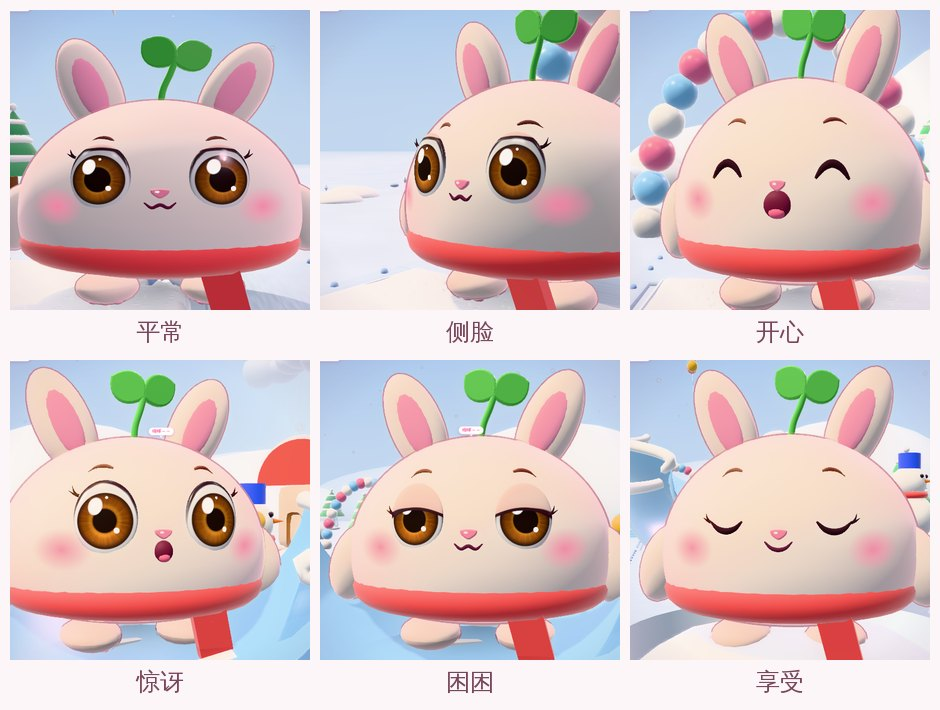
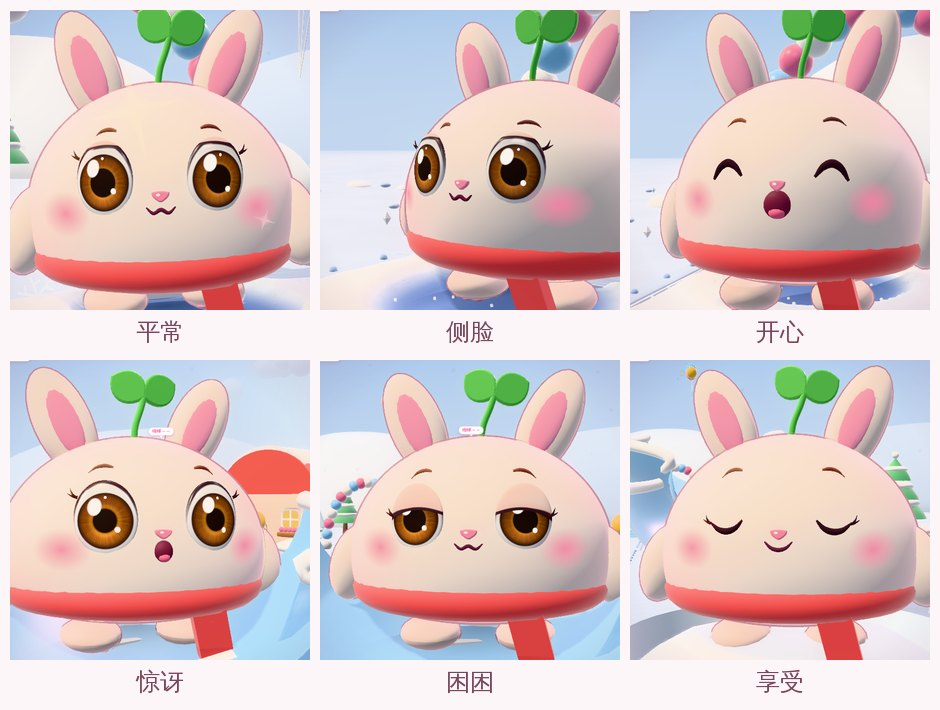
Gentler face from high camera angles
The stream camera mostly looks down on Nuonuo's round face, which
curves the outer ends of the brows and eyes upward and made her look
cross while concentrating. Brows now rest with the inner ends slightly
raised (focus lowers them only a little), and the outer eye corners
droop a few degrees, so she reads sweet from above and front alike.
Updated before/after and expression sheets.

Claude-Session: https://claude.ai/code/session_0154cY8S9MnHVjPRyCw9FU4Z

diff --git a/web/js/pet/pet.js b/web/js/pet/pet.js
@@ -187,6 +187,7 @@ export class Pet {
       g.position.copy(p);
       g.rotation.y = Math.atan2(p.x, p.z) * 0.8;
       g.rotation.x = -0.1;
+      g.rotation.z = -0.07 * s; // 外眼角微微往下垂一点（温柔的"下垂眼"）：从上往下拍时眼角不会显得上挑、凶
       const eyeGeo = planarUV(ellipsoid(ERX, ERY, EZ, 36, 22), ERX, ERY);
       this.disposables.push(eyeGeo);
       const mat = eyeMaterial({ side: s, aspect: ERX / ERY, skin: C.lid, map: irisTex });
@@ -516,7 +517,10 @@ export class Pet {
     // 眉毛
     const bm = P.brows || this.browMode;
     const by = bm === 'up' ? 0.03 : bm === 'down' ? -0.012 : bm === 'happy' ? 0.014 : 0;
-    const tilt = bm === 'down' ? 0.3 : bm === 'worried' ? -0.3 : bm === 'happy' ? -0.06 : 0; // 正：靠鼻子的一端往下（专注 / 用力）；负：往上（担心 / 开心）
+    // 正：靠鼻子的一端往下（专注 / 用力）；负：往上（担心 / 开心）。
+    // 平时眉头就微微往上（天真、软萌）；专注时也只压一点点——镜头多是从上往下拍圆脸，
+    // 五官两头会往上翘，眉头压太多看起来就像在生气
+    const tilt = bm === 'down' ? 0.12 : bm === 'worried' ? -0.3 : bm === 'happy' ? -0.14 : -0.08;
     for (const b of this.brows) {
       b.pv.position.y = damp(b.pv.position.y, b.y + by, 12, dt);
       b.b.rotation.z = damp(b.b.rotation.z, tilt * b.side, 12, dt);

diff --git a/docs/设计说明-v3.md b/docs/设计说明-v3.md
@@ -144,17 +144,19 @@
 | 部位 | 做法 |
 |---|---|
 | 眼白 | 白里带一点暖，上方被眼皮投下柔和的阴影，越靠眼角越偏冷 |
-| 眼睛大小 | 比原来再大一点、位置稍微靠下、两眼分得开（"婴儿图式"：大眼睛、低眼位） |
+| 眼睛大小 | 比原来再大一点、位置稍微靠下、两眼分得开（"婴儿图式"：大眼睛、低眼位）；外眼角微微往下垂一点（温柔的"下垂眼"） |
 | 虹膜 | 暖琥珀棕，放射状的细纹很淡（不写实），瞳孔周围一圈浅金色；外圈一道深色的"角膜缘"；下半部分透出蜂蜜色的光（光穿过角膜在眼底聚起来，Disney / Pixar 眼睛最重要的一笔）；虹膜大、平时略靠下，眼神更软 |
 | 瞳孔 | 大（占虹膜的一半，显得天真），惊讶时缩小一点 |
 | 高光 | 一大一小 + 一颗会闪的小星光，柔边、贴在角膜上、位置固定——转眼珠时高光不跟着跑，像真的反光 |
 | 眼皮 | 真的上眼皮：自然睁着时刚好碰到虹膜顶部（眼神温柔），惊讶时全睁开，眨眼时眼皮快速合上；困了半闭时眼皮仍是圆圆拱起的弧线、眉毛放松（平直的眼皮线会显得"无语 / 不耐烦"）；往上看时眼皮抬一点，往下看只跟一点点（干活时常低头，眼皮压太多会显得没精神）；靠近睫毛的地方有一点粉色的褶子阴影 |
 | 睫毛 | 眼皮边缘一条睫毛线（外眼角更粗），外眼角两根上翘的小睫毛；一直闭着时换成一条弯弯的 ︶ 睫毛线 |
-| 眉毛、嘴巴、闭眼笑 | 中间粗、两头细的线条，像手绘的一样（以前是粗细一样的圆环）；哑光、不反光，像一笔墨线；眉毛细细的、弯弯的，离眼睛留出眼皮的位置 |
+| 眉毛、嘴巴、闭眼笑 | 中间粗、两头细的线条，像手绘的一样（以前是粗细一样的圆环）；哑光、不反光，像一笔墨线；眉毛细细的、弯弯的，离眼睛留出眼皮的位置；平时眉头微微往上（天真），专注干活时也只压一点点 |
 | 鼻子 | 粉色的圆角倒三角（兔子鼻），带一点小高光 |
 | 身体、耳朵 | 毛绒绒的"桃子毛"光泽（sheen）+ 粉色轮廓光；原来的玫瑰棕粗描边改成很淡很细的边（动画电影角色不描黑边） |
 
 眼睛全部画在一个着色器里（`web/js/pet/face.js`）：虹膜按视线在眼眶里移动，永远不会跑出眼睛的轮廓；眼皮、睫毛线、高光都在同一层里，眨眼、眯眼、闭眼之间是连续过渡的。
+
+为什么要"下垂眼"和"眉头微微往上"：直播镜头大多是从斜上方拍这颗圆圆的团子，球面上的五官两头会往上翘——眼角上挑、眉头往下压，看起来像在生气。先把它们往反方向掰一点点，从上往下拍时刚好是平和、软萌的样子。
 
 顺手修掉的一个老问题：画线条用的"粗细渐变管子"三角形朝向是反的（法线朝里），看到的其实是管子里面的后壁——贴着脸的那一段后壁埋进皮肤里，闭着眼时那条 ︶ 中间就透出一道肤色，像露出了一排牙齿；眉毛和嘴巴也因此显得发虚。现在线条是实心的。
 
